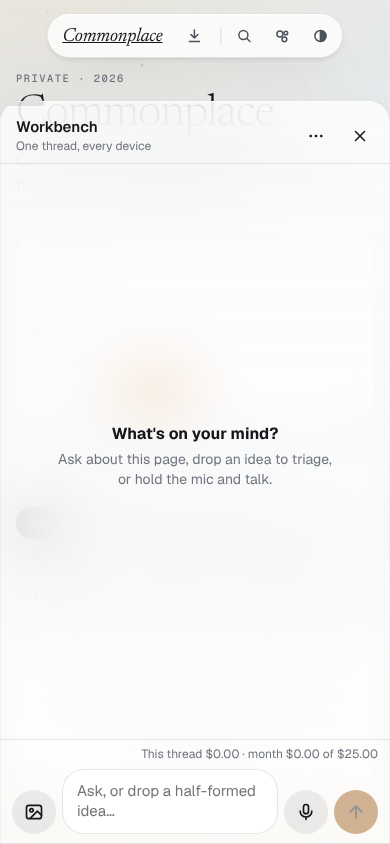
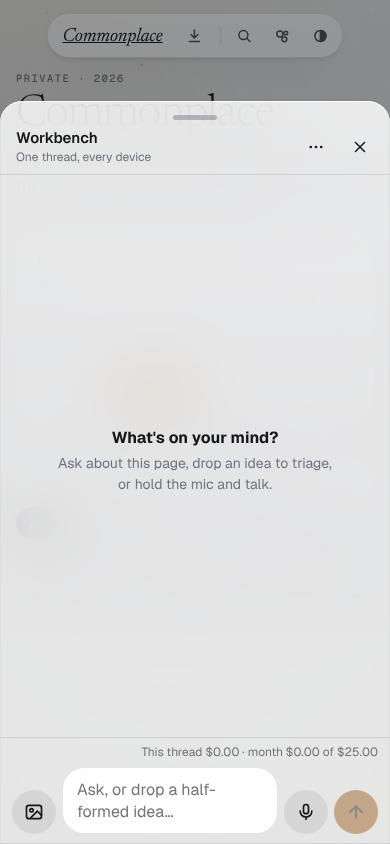
Phone fixes: Jazz nav drawer, Workbench sheet outside-tap and viewport fit
- /jazz/: a menu button in the phone top bar opens the nav as a drawer on
  every view (Fixes #84). The sidebar scrolls on its own on short landscape
  phones (844x390, 667x375) so every item is reachable.
- Workbench: tapping outside closes the phone sheet and tablet split view
  (scrim); the desktop panel stays open on outside clicks so page text can
  still be selected as context. Swipe the handle or title bar down to close.
  The phone sheet is fitted to the visual viewport (keyboard, zoom) with
  safe-area padding, so the close button, composer and Send stay on screen.
- Touch screens get 16px form fields on /jazz/, /trumpets/, /commonplace/ and
  in Workbench: iOS zoomed the page on focusing the 15px composer, which is
  what pushed the top bar, the close button and Send off the right edge.
- Browser check: every /jazz/ view, /trumpets/ and /commonplace/ fit at
  375/390/401 px; nav reachable in portrait and landscape; outside tap,
  keyboard/zoom and swipe-down for the sheet.

Claude-Session: https://claude.ai/code/session_01BDrBsfzT6T2pQGjmVyzC4F

diff --git a/assets/workbench/workbench.css b/assets/workbench/workbench.css
@@ -43,7 +43,7 @@
 /* ---------- The pill ---------- */
 .wb-pill {
   position: fixed; z-index: 2147483000; right: max(16px, env(safe-area-inset-right)); bottom: calc(max(16px, env(safe-area-inset-bottom)) + var(--wb-lift, 0px));
-  display: inline-flex; align-items: center; gap: 8px; height: 44px; padding: 0 16px 0 12px; border: 0; border-radius: 999px; cursor: pointer;
+  display: inline-flex; align-items: center; gap: 8px; height: 44px; padding: 0 16px 0 12px; border: 0; border-radius: 999px; cursor: pointer; -webkit-tap-highlight-color: transparent;
   transition: transform .35s var(--wb-spring), opacity .2s var(--wb-ease), bottom .25s var(--wb-ease);
 }
 .wb-pill:hover { transform: translateY(-1px); }
@@ -64,23 +64,43 @@
   transition: transform .45s var(--wb-spring), opacity .25s var(--wb-ease);
 }
 .wb-sheet[hidden] { display: none; }
-/* Phone: a bottom sheet with a thumb-reachable composer, above the keyboard. */
-.wb-mode-sheet .wb-sheet { left: 0; right: 0; bottom: var(--wb-kb, 0px); height: min(88dvh, calc(100dvh - 24px - var(--wb-kb, 0px))); border-radius: 22px 22px 0 0; padding-bottom: env(safe-area-inset-bottom); }
+/* Phone: a bottom sheet with a thumb-reachable composer, above the keyboard.
+ * workbench.js fits it to the visual viewport (what is actually on screen),
+ * so a zoomed or keyboard-shrunk view never pushes its edges off-screen;
+ * the fallbacks are for browsers without visualViewport. */
+.wb-mode-sheet .wb-sheet {
+  left: var(--wb-vv-left, 0px); width: var(--wb-vv-width, 100%); max-width: 100vw;
+  top: var(--wb-sheet-top, auto); bottom: var(--wb-sheet-bottom, 0px); height: var(--wb-sheet-height, min(88dvh, calc(100dvh - 24px)));
+  border-radius: 22px 22px 0 0;
+  padding: 0 env(safe-area-inset-right) env(safe-area-inset-bottom) env(safe-area-inset-left);
+}
+.wb-mode-sheet.wb-kb-open .wb-sheet { padding-bottom: 0; }
 .wb-mode-sheet .wb-grab { display: block; }
+/* Tapping outside the sheet closes it. Phones dim the page; the tablet split
+ * view only shades it lightly, and a swipe over it still scrolls the page. */
+.wb-scrim { position: fixed; inset: 0; z-index: 2147483000; background: rgba(8, 9, 14, .42); -webkit-tap-highlight-color: transparent; animation: wb-fade .2s var(--wb-ease); }
+.wb-scrim[hidden] { display: none; }
+.wb-mode-sheet .wb-scrim { touch-action: none; }
+.wb-mode-split .wb-scrim { right: min(46vw, 460px); background: rgba(8, 9, 14, .14); }
+@keyframes wb-fade { from { opacity: 0; } }
 /* Tablet: split view; the page moves over and stays usable. */
 .wb-mode-split .wb-sheet { top: 0; right: 0; bottom: 0; width: min(46vw, 460px); border-radius: 0; border-left: .5px solid var(--wb-hair); }
 html.wb-split-open body { margin-right: min(46vw, 460px) !important; transition: margin-right .35s var(--wb-ease); }
 /* Desktop: a floating side panel. */
 .wb-mode-panel .wb-sheet { top: 16px; right: 16px; bottom: 16px; width: var(--wb-width); border-radius: 22px; }
 
-.wb-grab { display: none; width: 44px; height: 5px; margin: 8px auto 0; border-radius: 3px; background: var(--wb-hair); border: 0; padding: 0; touch-action: none; cursor: grab; }
+/* The handle: a 5px bar inside a full-width, 24px-tall target. Tap or swipe down to close. */
+.wb-grab { display: none; flex: none; width: 100%; height: 24px; margin: 0; border: 0; padding: 0; background: transparent; touch-action: none; cursor: grab; }
+.wb-grab::before { content: ""; display: block; width: 44px; height: 5px; margin: 8px auto 0; border-radius: 3px; background: var(--wb-ink-3); opacity: .45; }
+.wb-sheet.wb-dragging { transition: none; }
 .wb-head { display: flex; align-items: center; gap: 8px; padding: 10px 12px 8px 16px; border-bottom: .5px solid var(--wb-hair); }
+.wb-mode-sheet .wb-head { padding-top: 2px; touch-action: pan-x; }
 .wb-title { flex: 1; min-width: 0; font-weight: 600; white-space: nowrap; overflow: hidden; text-overflow: ellipsis; }
 .wb-title small { display: block; font-weight: 400; color: var(--wb-ink-3); font-size: 12px; }
 .wb-icon { flex: none; width: 36px; height: 36px; border-radius: 12px; border: 0; background: transparent; display: grid; place-items: center; cursor: pointer; color: var(--wb-ink-2); }
 .wb-icon:hover { background: var(--wb-glass-lo); color: var(--wb-ink); }
 .wb-icon svg { width: 18px; height: 18px; }
-.wb-threads { max-width: 140px; height: 32px; border-radius: 10px; border: .5px solid var(--wb-hair); background: transparent; color: inherit; font: inherit; font-size: 13px; padding: 0 6px; }
+.wb-threads { flex: 0 1 auto; min-width: 0; max-width: 140px; height: 32px; border-radius: 10px; border: .5px solid var(--wb-hair); background: transparent; color: inherit; font: inherit; font-size: 13px; padding: 0 6px; }
 
 .wb-menu { display: flex; flex-wrap: wrap; gap: 6px; padding: 8px 12px; border-bottom: .5px solid var(--wb-hair); font-size: 13px; }
 .wb-menu[hidden] { display: none; }
@@ -145,11 +165,16 @@ html.wb-split-open body { margin-right: min(46vw, 460px) !important; transition:
 .wb-mic[aria-pressed="true"] { background: var(--wb-red); color: #fff; transform: scale(1.12); transition: transform .2s var(--wb-spring); }
 .wb-send svg, .wb-mic svg, .wb-attach svg { width: 20px; height: 20px; }
 .wb-hint { font-size: 12px; color: var(--wb-ink-3); }
+/* iOS Safari zooms the whole page when a field under 16px takes focus, which
+ * pushed the header, the close button and Send off the right edge. */
+@media (pointer: coarse) {
+  .wb-input, .wb-threads { font-size: 16px; }
+}
 .wb-rec { color: var(--wb-red); font-variant-numeric: tabular-nums; }
 
 .wb-sr { position: absolute; width: 1px; height: 1px; overflow: hidden; clip: rect(0 0 0 0); white-space: nowrap; }
 
 @media (prefers-reduced-motion: reduce) {
-  .wb *, .wb-pill, .wb-sheet { transition: none !important; animation: none !important; }
+  .wb *, .wb-pill, .wb-sheet, .wb-scrim { transition: none !important; animation: none !important; }
 }
 @media print { .wb { display: none !important; } }

diff --git a/assets/workbench/workbench.js b/assets/workbench/workbench.js
@@ -137,7 +137,11 @@
   const threadSelect = el("select", { class: "wb-threads", "aria-label": "Thread", onchange: () => selectThread(threadSelect.value) });
   const menuBtn = el("button", { class: "wb-icon", type: "button", "aria-label": "More", "aria-expanded": "false", html: ICON.more, onclick: () => toggleMenu() });
   const closeBtn = el("button", { class: "wb-icon", type: "button", "aria-label": "Close Workbench", html: ICON.close, onclick: () => toggle(false) });
-  const grab = el("button", { class: "wb-grab", type: "button", "aria-label": "Close Workbench", onclick: () => toggle(false) });
+  const grab = el("button", { class: "wb-grab", type: "button", "aria-label": "Close Workbench", onclick: () => { if (dragged) dragged = false; else toggle(false); } });
+  // Tapping outside closes the phone sheet and the tablet split view. The
+  // desktop panel stays open on outside clicks: it sits beside the page so you
+  // can select text there to talk about (Esc, ` and × close it).
+  const scrim = el("div", { class: "wb-scrim", hidden: true, "aria-hidden": "true", onclick: () => toggle(false) });
   const deepChip = el("button", { class: "wb-chip", type: "button", "aria-pressed": "false", title: "Think harder on the next message (higher effort)", onclick: () => { deep = !deep; deepChip.setAttribute("aria-pressed", String(deep)); } }, "Deep work");
   const notifyChip = el("button", { class: "wb-chip", type: "button", onclick: () => enablePush() }, "Notifications");
   const nudgeBox = el("input", { type: "checkbox", onchange: () => enablePush(true) });
@@ -162,7 +166,7 @@
     el("div", { class: "wb-head" }, titleEl, threadSelect, menuBtn, closeBtn),
     menu, log,
     el("div", { class: "wb-foot" }, statusLine, attachRow, el("div", { class: "wb-compose" }, attachBtn, fileInput, input, micBtn, sendBtn)));
-  root.append(pill, sheet);
+  root.append(scrim, pill, sheet);
 
   function mount() {
     document.body.append(root);
@@ -186,16 +190,66 @@
     root.className = `wb wb-mode-${mode}${open ? " wb-open" : ""}${pageIsDark() ? " wb-dark" : ""}`;
     document.documentElement.classList.toggle("wb-split-open", open && mode === "split");
     sheet.setAttribute("aria-modal", mode === "sheet" ? "true" : "false");
+    scrim.hidden = !(open && mode !== "panel");
+    fitViewport();
   }
   addEventListener("resize", () => { applyMode(); liftPill(); });
+  // The phone sheet follows the visual viewport (the part of the page on
+  // screen): above the keyboard, and inside the screen even when the page is
+  // pinch-zoomed or wider than the screen, so × and Send stay reachable.
+  function fitViewport() {
+    const vv = window.visualViewport;
+    if (!vv || mode !== "sheet") {
+      for (const k of ["--wb-vv-left", "--wb-vv-width", "--wb-sheet-top", "--wb-sheet-bottom", "--wb-sheet-height"]) root.style.removeProperty(k);
+      root.classList.remove("wb-kb-open");
+      return;
+    }
+    const full = document.documentElement.clientHeight / (vv.scale || 1);
+    const keyboard = full - vv.height > 120;
+    const height = Math.max(160, Math.min(full * 0.88, vv.height - 24));
+    const px = (n) => `${Math.round(n * 100) / 100}px`;
+    root.style.setProperty("--wb-vv-left", px(vv.offsetLeft));
+    root.style.setProperty("--wb-vv-width", px(vv.width));
+    root.style.setProperty("--wb-sheet-top", px(vv.offsetTop + vv.height - height));
+    root.style.setProperty("--wb-sheet-bottom", "auto");
+    root.style.setProperty("--wb-sheet-height", px(height));
+    root.classList.toggle("wb-kb-open", keyboard);
+  }
   if (window.visualViewport) {
-    const kb = () => {
-      const vv = window.visualViewport;
-      const inset = Math.max(0, innerHeight - vv.height - vv.offsetTop);
-      root.style.setProperty("--wb-kb", `${Math.round(inset)}px`);
-    };
-    visualViewport.addEventListener("resize", kb);
-    visualViewport.addEventListener("scroll", kb);
+    visualViewport.addEventListener("resize", fitViewport);
+    visualViewport.addEventListener("scroll", fitViewport);
+  }
+
+  // Swipe the sheet down by its handle (or its title bar) to close it.
+  let drag = null, dragged = false;
+  function dragStart(e) {
+    if (mode !== "sheet" || !open || (e.pointerType === "mouse" && e.button !== 0)) return;
+    if (e.currentTarget !== grab && e.target.closest("button, select, a, input, textarea")) return;
+    drag = { y: e.clientY, t: performance.now(), dy: 0 };
+    dragged = false;
+    try { e.currentTarget.setPointerCapture(e.pointerId); } catch { /* synthetic event */ }
+    sheet.classList.add("wb-dragging");
+  }
+  function dragMove(e) {
+    if (!drag) return;
+    drag.dy = Math.max(0, e.clientY - drag.y);
+    if (drag.dy > 6) dragged = true;
+    sheet.style.transform = drag.dy ? `translateY(${drag.dy}px)` : "";
+  }
+  function dragEnd() {
+    if (!drag) return;
+    const { dy, t } = drag;
+    drag = null;
+    sheet.classList.remove("wb-dragging");
+    sheet.style.transform = "";
+    const speed = dy / Math.max(1, performance.now() - t);
+    if (dy > 90 || (dy > 30 && speed > 0.5)) toggle(false);
+  }
+  for (const target of [grab, sheet.querySelector(".wb-head")]) {
+    target.addEventListener("pointerdown", dragStart);
+    target.addEventListener("pointermove", dragMove);
+    target.addEventListener("pointerup", dragEnd);
+    target.addEventListener("pointercancel", dragEnd);
   }
 
   // Keep the pill clear of fixed bars the page puts in the same corner

diff --git a/assets/jazz/jazz.css b/assets/jazz/jazz.css
@@ -1964,3 +1964,75 @@ button.milestone-chip { min-height: 30px; cursor: pointer; }
   .tune-events li a { grid-column: 2; }
   .plan-tune-pill { margin-left: 16px; }
 }
+
+/* ---------- The sidebar on short screens ----------
+ * The sidebar is fixed to the viewport's height. On a phone held sideways
+ * (844x390, 667x375) its links run past the bottom, so it scrolls on its own
+ * and keeps clear of the notch and home indicator. */
+.virtuoso-nav { overflow-y: auto; overscroll-behavior: contain; -webkit-overflow-scrolling: touch; scrollbar-width: thin; }
+.virtuoso-nav > * { flex-shrink: 0; }
+@media (max-height: 560px) and (min-width: 721px) {
+  .virtuoso-nav { padding-top: max(18px, env(safe-area-inset-top)) !important; padding-bottom: max(14px, env(safe-area-inset-bottom)) !important; padding-left: max(18px, env(safe-area-inset-left)) !important; }
+  .virtuoso-nav-links { gap: 2px; margin-top: 18px; }
+  .virtuoso-nav-links a,
+  .virtuoso-nav-links > span { min-height: 40px; }
+  .virtuoso-nav-footer { padding-top: 14px; }
+}
+
+/* ---------- Phone navigation ----------
+ * Below the sidebar breakpoint (720px, 760px on Clip studio) the sidebar
+ * folds away. The sticky top bar gets a menu button that slides the same nav
+ * in as a drawer (assets/jazz/mobile-nav.js). The palette is set here so the
+ * bar and the drawer read the same on every view. */
+.virtuoso-menu-button { display: none; }
+.virtuoso-nav-scrim[hidden] { display: none; }
+@media (max-width: 760px) {
+  .virtuoso-mobile-header,
+  body.jazz-nav-open .virtuoso-nav {
+    --ink: #f3f3f2; --text: #d8d5cf; --muted: #9e9991; --faint: #77716a;
+    --line: rgba(181, 147, 91, 0.2); --line-strong: rgba(181, 147, 91, 0.42);
+    --brass: #b5935b; --brass-light: #d2b77f; --green: #a5c99f; --red: #d38b82;
+    --mono: "JetBrains Mono", ui-monospace, SFMono-Regular, Menlo, Monaco, Consolas, monospace;
+    --serif: "Playfair Display", Georgia, serif;
+  }
+  .virtuoso-mobile-header { gap: 8px; padding: 0 max(16px, env(safe-area-inset-right)) 0 max(6px, env(safe-area-inset-left)) !important; }
+  .virtuoso-mobile-header strong { flex: 1; min-width: 0; overflow: hidden; color: var(--ink); font: 600 15px var(--serif); text-overflow: ellipsis; white-space: nowrap; }
+  .virtuoso-mobile-header > span { flex: none; color: var(--brass); font: 8px var(--mono); letter-spacing: 0.1em; text-transform: uppercase; }
+  .virtuoso-menu-button { flex: none; display: grid; place-items: center; width: 44px; height: 44px; margin: 0; padding: 0; border: 0; border-radius: 4px; background: transparent; color: var(--ink); cursor: pointer; -webkit-tap-highlight-color: transparent; }
+  .virtuoso-menu-button:focus-visible { outline: 2px solid var(--brass); outline-offset: -4px; }
+  .virtuoso-menu-button span,
+  .virtuoso-menu-button span::before,
+  .virtuoso-menu-button span::after { display: block; width: 18px; height: 1.5px; border-radius: 1px; background: currentColor; transition: transform 0.2s ease, background-color 0.2s ease; }
+  .virtuoso-menu-button span { position: relative; }
+  .virtuoso-menu-button span::before,
+  .virtuoso-menu-button span::after { content: ""; position: absolute; left: 0; }
+  .virtuoso-menu-button span::before { top: -6px; }
+  .virtuoso-menu-button span::after { top: 6px; }
+  .virtuoso-menu-button[aria-expanded="true"] span { background: transparent; }
+  .virtuoso-menu-button[aria-expanded="true"] span::before { background: var(--ink); transform: translateY(6px) rotate(45deg); }
+  .virtuoso-menu-button[aria-expanded="true"] span::after { background: var(--ink); transform: translateY(-6px) rotate(-45deg); }
+  body.jazz-nav-open .virtuoso-nav {
+    position: fixed; z-index: 60; inset: 0 auto 0 0;
+    width: min(300px, calc(100vw - 56px)); display: flex !important; flex-direction: column;
+    padding: max(24px, env(safe-area-inset-top)) 16px max(20px, env(safe-area-inset-bottom)) max(16px, env(safe-area-inset-left));
+    border-right: 1px solid var(--line); background: #171617; box-shadow: 24px 0 60px rgba(0, 0, 0, 0.5);
+    animation: virtuoso-drawer-in 0.22s cubic-bezier(0.2, 0.7, 0.2, 1);
+  }
+  body.jazz-nav-open .virtuoso-nav-links { margin-top: 28px; }
+  body.jazz-nav-open .virtuoso-nav-footer { padding-top: 24px; }
+  .virtuoso-nav-scrim { position: fixed; inset: 0; z-index: 55; background: rgba(8, 7, 10, 0.62); -webkit-tap-highlight-color: transparent; }
+}
+@keyframes virtuoso-drawer-in { from { transform: translateX(-24px); opacity: 0; } }
+@media (prefers-reduced-motion: reduce) {
+  body.jazz-nav-open .virtuoso-nav { animation: none; }
+  .virtuoso-menu-button span, .virtuoso-menu-button span::before, .virtuoso-menu-button span::after { transition: none; }
+}
+
+/* iOS Safari zooms the whole page when a field whose text is under 16px takes
+ * focus, and the zoom outlives the keyboard: the top bar, Workbench's close
+ * button and Send end up past the right edge. Touch screens get 16px fields. */
+@media (pointer: coarse) {
+  input:not([type="checkbox"]):not([type="radio"]):not([type="range"]):not([type="file"]):not([type="color"]):not([type="button"]):not([type="submit"]),
+  select,
+  textarea { font-size: 16px !important; }
+}

diff --git a/assets/jazz/mobile-nav.js b/assets/jazz/mobile-nav.js
@@ -1,0 +1,35 @@
+/* Phone navigation for /jazz/: below the sidebar breakpoint the sidebar folds
+ * away and the sticky top bar gets a menu button that slides the same nav in
+ * as a drawer. It closes on a link, the scrim, Esc, a view change, or when the
+ * window grows back to the sidebar layout. */
+(() => {
+  "use strict";
+  const button = document.getElementById("jazz-menu-button");
+  const nav = document.getElementById("jazz-nav");
+  const scrim = document.getElementById("jazz-nav-scrim");
+  if (!button || !nav || !scrim) return;
+
+  const isOpen = () => document.body.classList.contains("jazz-nav-open");
+  function setOpen(open, { focus = true } = {}) {
+    if (open === isOpen()) return;
+    document.body.classList.toggle("jazz-nav-open", open);
+    scrim.hidden = !open;
+    button.setAttribute("aria-expanded", String(open));
+    button.setAttribute("aria-label", open ? "Close menu" : "Open menu");
+    if (open) {
+      if (focus) (nav.querySelector(".virtuoso-nav-links .active") || nav.querySelector("a"))?.focus({ preventScroll: true });
+    } else if (focus && nav.contains(document.activeElement)) {
+      button.focus({ preventScroll: true });
+    }
+  }
+
+  button.addEventListener("click", () => setOpen(!isOpen()));
+  scrim.addEventListener("click", () => setOpen(false));
+  nav.addEventListener("click", (event) => { if (event.target.closest("a")) setOpen(false, { focus: false }); });
+  document.addEventListener("keydown", (event) => {
+    if (event.key === "Escape" && isOpen()) { event.preventDefault(); setOpen(false); }
+  });
+  addEventListener("hashchange", () => setOpen(false, { focus: false }));
+  // The drawer only exists while the top bar does; a rotate to landscape brings the sidebar back.
+  addEventListener("resize", () => { if (isOpen() && !button.getClientRects().length) setOpen(false, { focus: false }); });
+})();

diff --git a/jazz/index.html b/jazz/index.html
@@ -27,7 +27,7 @@
 <body class="virtuoso-today">
   <a class="skip-link" href="#main">Skip to campaign</a>
 
-  <nav class="virtuoso-nav" aria-label="Jazz Project">
+  <nav class="virtuoso-nav" id="jazz-nav" aria-label="Jazz Project">
     <a class="virtuoso-brand" href="./" aria-label="Jazz Project today">
       <span class="virtuoso-monogram">JP</span>
       <span><strong>Jazz Project</strong><small>Private trumpet archive</small></span>
@@ -49,7 +49,10 @@
     </div>
   </nav>
 
+  <div class="virtuoso-nav-scrim" id="jazz-nav-scrim" hidden></div>
+
   <header class="virtuoso-mobile-header">
+    <button class="virtuoso-menu-button" id="jazz-menu-button" type="button" aria-controls="jazz-nav" aria-expanded="false" aria-label="Open menu"><span aria-hidden="true"></span></button>
     <strong>Jazz Project</strong>
     <span id="mobile-view-label">Today</span>
   </header>
@@ -646,6 +649,7 @@
   <script src="../assets/jazz/metronome.js"></script>
   <script src="../assets/jazz/archive-utils.js"></script>
   <script src="../assets/jazz/archive.js"></script>
+  <script src="../assets/jazz/mobile-nav.js"></script>
   <script src="../assets/jazz/clip-studio-model.js"></script>
   <script src="../assets/jazz/clip-studio.js"></script>
   <script src="../assets/jazz/clip-download.js"></script>

diff --git a/assets/commonplace/commonplace.css b/assets/commonplace/commonplace.css
@@ -498,3 +498,11 @@ select.chip { padding-right: 8px; }
 @media (prefers-reduced-motion: reduce) {
   *, *::before, *::after { animation-duration: .001ms !important; animation-delay: 0ms !important; transition-duration: .001ms !important; }
 }
+
+/* iOS Safari zooms the page when a field under 16px takes focus, leaving the
+ * page wider than the screen. Touch screens get 16px fields. */
+@media (pointer: coarse) {
+  input:not([type="checkbox"]):not([type="radio"]):not([type="range"]):not([type="file"]):not([type="color"]):not([type="button"]):not([type="submit"]),
+  select,
+  textarea { font-size: 16px !important; }
+}

diff --git a/assets/trumpets/trumpets.css b/assets/trumpets/trumpets.css
@@ -1174,3 +1174,11 @@ dialog .chip-input input:not([type="checkbox"]) { flex: 1 1 140px; margin: 0; bo
 @media (prefers-reduced-motion: reduce) {
   .insp-media.skeleton::after, .insp-status.working::before { animation: none; }
 }
+
+/* iOS Safari zooms the page when a field under 16px takes focus, leaving the
+ * page wider than the screen. Touch screens get 16px fields. */
+@media (pointer: coarse) {
+  input:not([type="checkbox"]):not([type="radio"]):not([type="range"]):not([type="file"]):not([type="color"]):not([type="button"]):not([type="submit"]),
+  select,
+  textarea { font-size: 16px !important; }
+}

diff --git a/assets/jazz/effects.html b/assets/jazz/effects.html
@@ -38,6 +38,8 @@
     background: var(--panel); color: var(--text);
     border: 1px solid var(--panel-edge); border-radius: 8px; padding: 8px; font-size: 14px;
   }
+  /* iOS zooms the whole page when a field under 16px takes focus. */
+  @media (pointer: coarse) { select { font-size: 16px; } }
   .status { font-size: 13px; color: var(--dim); }
   .warn {
     background: #3a2f1a; border: 1px solid #6b5522; border-radius: 8px;
